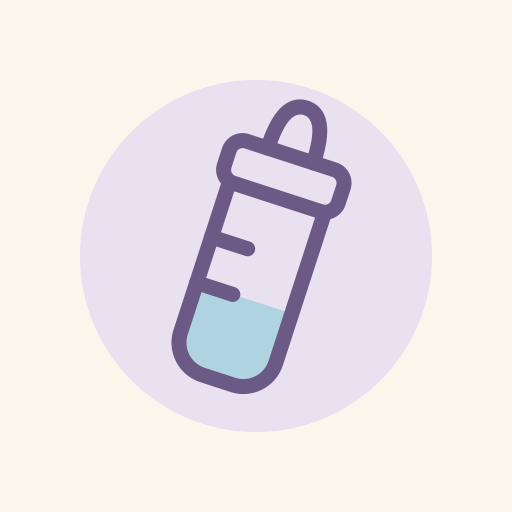
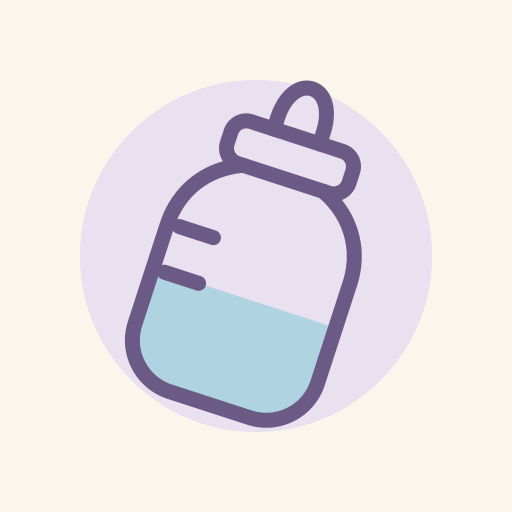
Retouches de Maxime : paramètres allégés, version en bas, fiches sans notes, biberon plus rond, premières en polaroïds défilantes
- Paramètres : entrée « Gérer les modules » retirée (reste sur l'accueil),
  textes d'aide retirés, « Kenda 1.1.0 » sous le bloc Compte
- Fiches couche / croissance / première sans note de bas de page ; titre de
  première : « Ajouter », plus d'émoji-icône
- Icône biberon redessinée (corps large à épaules), app.js et assets/icon*.svg,
  PNG régénérés ; CACHE v10
- Premières sur l'accueil : carrousel aimanté de polaroïds (image entière)

Changed region(s): [[0.2188, 0.1562, 0.7188, 0.8438]]

diff --git a/app.js b/app.js
@@ -109,7 +109,7 @@ const ICONS = {
   refresh: '<path d="M20 11a8 8 0 0 0-14.5-4M4 4v4h4"/><path d="M4 13a8 8 0 0 0 14.5 4M20 20v-4h-4"/>',
   clock: '<circle cx="12" cy="12" r="9"/><path d="M12 7v5l3 2"/>',
   trash: '<path d="M5 7h14M10 7V4h4v3M7 7l1 13h8l1-13"/>',
-  bottle: '<path d="M10.5 5.5c0-2 .5-3 1.5-3s1.5 1 1.5 3"/><rect x="8" y="5.5" width="8" height="3" rx="1"/><path d="M9 8.5V19a2 2 0 0 0 2 2h2a2 2 0 0 0 2-2V8.5"/><path d="M9 13h2.5M9 16.5h2.5"/>',
+  bottle: '<path d="M10.2 5.5v-.9c0-1.3.8-2.4 1.8-2.4s1.8 1.1 1.8 2.4v.9"/><rect x="8.2" y="5.5" width="7.6" height="2.8" rx="1.2"/><path d="M9.2 8.3c-2 .9-3.4 2.7-3.4 4.8V18a3.2 3.2 0 0 0 3.2 3.2h6a3.2 3.2 0 0 0 3.2-3.2v-4.9c0-2.1-1.4-3.9-3.4-4.8"/><path d="M8.3 13.6h2.4M8.3 16.6h2.4"/>',
   baby: '<circle cx="12" cy="13" r="8"/><path d="M9.5 12.5v.01M14.5 12.5v.01"/><path d="M10 16c1.2 1 2.8 1 4 0"/><path d="M12 5c0-1.6 1.6-2.2 2.6-1.2"/>',
   users: '<circle cx="9" cy="8" r="3"/><path d="M3 20c0-3.3 2.7-6 6-6s6 2.7 6 6"/><circle cx="17" cy="9" r="2.5"/><path d="M17 14.5c2.5 0 4 2 4 5"/>',
   logout: '<path d="M14 8V6a2 2 0 0 0-2-2H6a2 2 0 0 0-2 2v12a2 2 0 0 0 2 2h6a2 2 0 0 0 2-2v-2"/><path d="M9 12h12M18 9l3 3-3 3"/>',
@@ -151,8 +151,7 @@ function moduleList(baby = currentBaby()) {
 const moduleOn = (id) => moduleList().find((m) => m.id === id)?.on !== false;
 const fmtDate = (day, opts = { day: "numeric", month: "short", year: "numeric" }) => fr(parseDay(day), opts);
 const todayKey = () => dayKey(new Date());
-/** Premier émoji d'un titre (« 😀 Premier sourire »), s'il y en a un. */
-const leadingEmoji = (s) => String(s || "").match(/^\s*(\p{Extended_Pictographic}(?:\uFE0F|\u200D\p{Extended_Pictographic})*)/u)?.[1] || "";
+
 
 // ================================================================== RENDU ===
 function render(view) {
@@ -367,27 +366,29 @@ function homeGrowth() {
 // ---------------------------------------------------- accueil : premières ---
 function firstBadge(f) {
   const photo = f.has_photo ? photos.get(f.id) : null;
-  if (photo) return `<span class="hero-icon photo"><img src="${esc(photo)}" alt=""></span>`;
-  const e = leadingEmoji(f.title);
-  return `<span class="hero-icon ${e ? "emoji" : ""}">${e ? esc(e) : icon("star")}</span>`;
+  return photo ? `<span class="hero-icon photo"><img src="${esc(photo)}" alt=""></span>` : `<span class="hero-icon">${icon("star")}</span>`;
 }
-const firstTitle = (f) => { const e = leadingEmoji(f.title); return (e && f.title.trim().slice(e.length).trim()) || f.title; };
+const firstTitle = (f) => f.title;
 function firstWhen(f) {
   const baby = currentBaby();
   const age = baby.birth_date && f.happened_on >= baby.birth_date ? ` · ${ageLabel(baby.birth_date, f.happened_on)}` : "";
   return `${fmtDate(f.happened_on)}${age}`;
 }
+/** Un polaroïd par première, de la plus récente à la plus ancienne, à faire défiler du doigt. */
 function homeFirsts() {
-  const last = sortBy(ofBaby("firsts"), "happened_on")[0], baby = currentBaby();
-  const hero = last ? `<button class="hero hero-btn" data-action="edit-premieres" data-id="${last.id}">
-      ${firstBadge(last)}
-      <div class="hero-text"><p class="hero-title wrap">${esc(firstTitle(last))}</p>
-        <p class="meta">${esc(firstWhen(last))}</p></div>
-      <span class="chev">${icon("right")}</span></button>`
+  const rows = sortBy(ofBaby("firsts"), "happened_on"), baby = currentBaby();
+  const body = rows.length ? `<div class="polaroids">${rows.map((f) => {
+    const photo = f.has_photo ? photos.get(f.id) : null;
+    return `<button class="polaroid" data-action="edit-premieres" data-id="${f.id}">
+        <span class="polaroid-photo">${photo ? `<img src="${esc(photo)}" alt="">` : icon("star")}</span>
+        <span class="polaroid-title">${esc(f.title)}</span>
+        <span class="meta">${esc(firstWhen(f))}</span>
+      </button>`;
+  }).join("")}</div>`
     : `<div class="hero"><span class="hero-icon">${icon("star")}</span>
       <div class="hero-text"><p class="hero-title">Aucune première notée</p>
       <p class="meta">Premier sourire, premier bain… touche le « + » pour garder les grands moments de ${esc(baby.name)}.</p></div></div>`;
-  return moduleCard("premieres", "Premières de bébé", "Ajouter une première", hero, last ? { page: "firsts", label: "Voir tout" } : null);
+  return moduleCard("premieres", "Premières de bébé", "Ajouter une première", body, rows.length ? { page: "firsts", label: "Voir tout" } : null);
 }
 
 // =============================================================== SOUS-ÉCRANS ===
@@ -757,7 +758,6 @@ function viewHistory() {
 function viewSettings() {
   const baby = currentBaby(), mine = me();
   const people = state.caregivers.filter((c) => c.baby_id === baby.id);
-  const kinds = enabledKinds();
   const remind = (m) => (m == null ? "Aucune" : formatElapsed(m * 60000));
   return `
     <section class="card form-card">
@@ -777,15 +777,14 @@ function viewSettings() {
           <button class="${baby.unit === "ml" ? "on" : ""}" data-action="set-unit" data-unit="ml">Millilitres (ml)</button>
           <button class="${baby.unit === "oz" ? "on" : ""}" data-action="set-unit" data-unit="oz">Onces (oz)</button>
         </div>
-        <p class="meta">Choisie une fois pour tout le monde ; la saisie ne la redemande jamais.</p></div>
+</div>
       <div class="field"><label>Sexe</label>
         <div class="segmented">
           <button class="${baby.sex === "f" ? "on" : ""}" data-action="set-sex" data-sex="f">Fille</button>
           <button class="${baby.sex === "m" ? "on" : ""}" data-action="set-sex" data-sex="m">Garçon</button>
         </div></div>
       <div class="field"><label for="set-birth">Date de naissance</label>
-        <input type="date" id="set-birth" value="${esc(baby.birth_date || "")}" max="${todayKey()}" data-change="set-birth">
-        <p class="meta">Le sexe et la date de naissance servent aux courbes de croissance (percentiles de l'OMS) et à l'âge affiché sur les premières.</p></div>
+        <input type="date" id="set-birth" value="${esc(baby.birth_date || "")}" max="${todayKey()}" data-change="set-birth"></div>
       <div class="field"><label>Unités de la croissance</label>
         <div class="segmented">
           <button class="${weightUnit() === "kg" ? "on" : ""}" data-action="set-weight-unit" data-unit="kg">Kilogrammes</button>
@@ -795,10 +794,6 @@ function viewSettings() {
           <button class="${lengthUnit() === "cm" ? "on" : ""}" data-action="set-length-unit" data-unit="cm">Centimètres</button>
           <button class="${lengthUnit() === "po" ? "on" : ""}" data-action="set-length-unit" data-unit="po">Pouces</button>
         </div></div>
-      <div class="field"><label>Modules de l'accueil</label>
-        <button class="btn ghost block modules-btn" data-action="open-page" data-page="modules">${icon("grip")} Gérer les modules
-          <span class="meta">${moduleList().filter((m) => m.on).map((m) => MODULES[m.id].label).join(" · ") || "aucun"}</span></button>
-        <p class="meta">Ordre des blocs, modules affichés, types de lait proposés (${kinds.map((k) => KIND_SHORT[k]).join(", ")}).</p></div>
       <div class="field"><label for="set-remind">Alerte douce sur l'accueil après</label>
         <select id="set-remind" data-change="set-remind">
           ${REMIND_CHOICES.map((m) => `<option value="${m ?? ""}" ${(baby.remind_after_min ?? null) === m ? "selected" : ""}>${remind(m)}</option>`).join("")}
@@ -812,7 +807,7 @@ function viewSettings() {
         <div class="row"><div class="code">${esc(baby.join_code)}</div>
           <button class="icon-btn" data-action="copy-code" aria-label="Copier le code">${icon("copy")}</button>
           ${navigator.share ? `<button class="icon-btn" data-action="share-code" aria-label="Partager le code">${icon("share")}</button>` : ""}</div>
-        <p class="meta">Ta conjointe ouvre Kenda, crée son compte, puis choisit « Rejoindre avec un code ». Chaque bébé a son propre code.</p></div>
+</div>
       <div class="field"><label>Personnes qui suivent ${esc(baby.name)}</label>
         <div class="people">${people.map((c) => `
           <div class="person"><span class="avatar" style="background:${esc(c.color || CAREGIVER_COLORS[0])}">${esc(c.name.charAt(0).toUpperCase())}</span>
@@ -837,8 +832,8 @@ function viewSettings() {
       <h2>Compte</h2>
       <p class="meta">${esc(state.user?.email || "")}</p>
       <button class="btn ghost block danger" data-action="signout">${icon("logout")} Se déconnecter</button>
-      <p class="meta center">Kenda ${VERSION}${window.KENDA_DEV ? " · DEV" : ""}</p>
-    </section>`;
+    </section>
+    <p class="meta center version">Kenda ${VERSION}${window.KENDA_DEV ? " · DEV" : ""}</p>`;
 }
 
 // ------------------------------------------------------ écrans hors de l'app ---
@@ -1200,7 +1195,6 @@ function sheetDiaper() {
       <span class="row-label">Érythème fessier</span>
       <span class="switch ${s.rash ? "on" : ""}"></span>
     </button>
-    <p class="meta sheet-note">Ni mouillée ni sale = couche sèche.</p>
     ${deleteFoot(s, "cette couche")}`;
 }
 function saveDiaper() {
@@ -1239,7 +1233,6 @@ function sheetGrowth() {
     <label class="form-row"><span class="row-label">Tour de tête</span>${num("g-head", s.head, lu)}</label>
     ${noteRow(s.note)}
     ${photoRow(s)}
-    <p class="meta sheet-note">Remplis seulement ce que tu as mesuré. Les unités se changent dans les Paramètres.</p>
     ${deleteFoot(s, "ces mesures")}`;
 }
 const numVal = (id) => { const v = parseFloat(($(`#${id}`)?.value || "").replace(",", ".")); return Number.isFinite(v) && v > 0 ? v : null; };
@@ -1275,11 +1268,10 @@ function sheetFirst() {
     ${dateRow(s.date)}
     <label class="form-row tall">
       <span class="row-label">Première</span>
-      <input type="text" id="sheet-title" class="row-input" placeholder="Premier sourire 😊" value="${esc(s.title)}" maxlength="120" autocomplete="off" enterkeyhint="done">
+      <input type="text" id="sheet-title" class="row-input" placeholder="Ajouter" value="${esc(s.title)}" maxlength="120" autocomplete="off" enterkeyhint="done">
     </label>
     ${noteRow(s.note)}
     ${photoRow(s)}
-    <p class="meta sheet-note">Un émoji au début du titre devient l'icône de la première.</p>
     ${deleteFoot(s, "cette première")}`;
 }
 function saveFirst() {

diff --git a/app.css b/app.css
@@ -365,7 +365,6 @@ button.form-row { width: 100%; text-align: left; }
 .hero-icon.photo { overflow: hidden; }
 .hero-icon.photo img { width: 100%; height: 100%; object-fit: cover; display: block; }
 .hero-icon.small { width: 40px; height: 40px; }
-.hero-icon.emoji { font-size: 26px; line-height: 1; }
 .hero-tags { display: flex; flex-direction: column; align-items: flex-end; gap: 4px; }
 .tag { display: inline-block; font: 600 13px var(--font-body); color: var(--mod-dark, var(--yellow-dark)); background: var(--mod-soft, var(--yellow-soft)); border-radius: 999px; padding: 4px 10px; white-space: nowrap; }
 .tag.warn { color: var(--alert-dark); background: color-mix(in srgb, var(--alert) 50%, var(--cream)); }
@@ -438,8 +437,6 @@ button.form-row { width: 100%; text-align: left; }
 .mod-item.premieres .mod-dot { color: var(--sky-dark); }
 .mod-name { flex: 1; font-size: 16px; }
 .switch-btn { display: grid; padding: 4px 0; }
-.modules-btn { justify-content: flex-start; flex-wrap: wrap; text-align: left; }
-.modules-btn .meta { width: 100%; padding-left: 27px; font-weight: 400; }
 
 /* fiches des modules */
 .sheet.mod-diaper .sheet-band { background: var(--yellow); }
@@ -465,3 +462,13 @@ textarea.row-input { line-height: 1.35; }
 .page-head.modules h2 { position: static; transform: none; font-size: 20px; }
 .first-row .hero-icon { background: var(--sky-soft); color: var(--sky-dark); }
 .manage-btn { margin-top: 4px; color: var(--muted); }
+.version { margin: 18px 0 6px; }
+/* polaroïds des premières : un carrousel aimanté, l'image entière */
+.polaroids { display: flex; gap: 14px; overflow-x: auto; scroll-snap-type: x mandatory; padding: 40px 20px 18px; scrollbar-width: none; -webkit-overflow-scrolling: touch; }
+.polaroids::-webkit-scrollbar { display: none; }
+.polaroid { flex: 0 0 72%; scroll-snap-align: center; display: flex; flex-direction: column; align-items: flex-start; gap: 4px; text-align: left; background: #FFFDF8; padding: 10px 10px 14px; border-radius: 6px; box-shadow: 0 4px 16px rgba(74, 66, 56, .12), 0 0 0 1px var(--cream-line); }
+.polaroid:active { transform: scale(.985); }
+.polaroid-photo { width: 100%; aspect-ratio: 1; background: var(--sky-soft); color: var(--sky-dark); display: grid; place-items: center; overflow: hidden; margin-bottom: 8px; }
+.polaroid-photo img { width: 100%; height: 100%; object-fit: contain; display: block; }
+.polaroid-photo .ic { width: 44px; height: 44px; stroke-width: 1.3; }
+.polaroid-title { font-family: var(--font-display); font-weight: 400; font-size: 18px; line-height: 1.2; color: var(--sky-dark); }

diff --git a/_dev/fake-supabase.js b/_dev/fake-supabase.js
@@ -75,7 +75,7 @@
           height_cm: i % 2 ? null : Math.round((49.5 + age * 0.11) * 10) / 10, head_cm: i % 3 ? null : Math.round((34.5 + age * 0.06) * 10) / 10,
           note: i === 0 ? "À la naissance, à l'hôpital" : null, photo: null, caregiver_id: max.id, created_at: iso(on), updated_at: iso(on), deleted_at: null });
       });
-      [["🙂 Premier sourire", 38], ["Première nuit de 6 h", 70], ["🛁 Premier bain dans la grande baignoire", 95]].forEach(([title, age]) => {
+      [["Premier sourire", 38], ["Première nuit de 6 h", 70], ["Premier bain dans la grande baignoire", 95]].forEach(([title, age]) => {
         const on = new Date(birth.getTime() + age * DAY);
         if (on > new Date()) return;
         d.firsts.push({ id: uuid(), baby_id: b.id, happened_on: on.toISOString().slice(0, 10), title, note: age === 70 ? "De 22 h à 4 h, sans se réveiller !" : null,

diff --git a/sw.js b/sw.js
@@ -7,7 +7,7 @@
 // Les données (API Supabase) ne passent jamais par ici : c'est app.js qui en
 // garde une copie sur l'appareil.
 // ⚠ Augmenter CACHE à chaque changement de la liste SHELL.
-const CACHE = "kenda-v9";
+const CACHE = "kenda-v10";
 const FONT_CACHE = "kenda-fonts";
 const NETWORK_TIMEOUT = 3000;
 const SHELL = [
